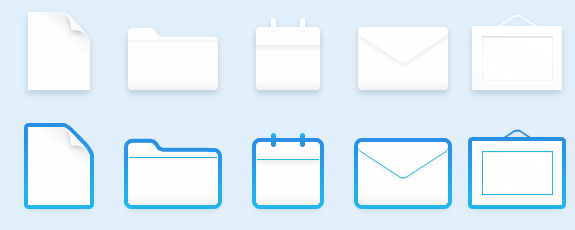
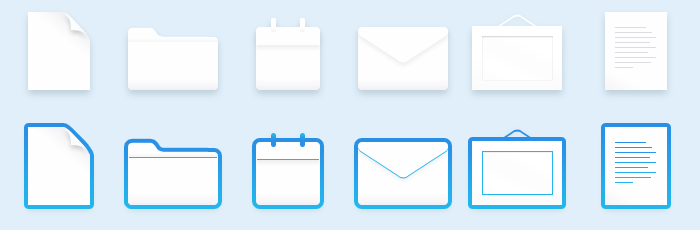
Фикс иконок

diff --git a/templates/skin/synio/css/modals.css b/templates/skin/synio/css/modals.css
@@ -56,19 +56,20 @@
 .modal.modal-write .write-list li a { color: #727a90; }
 .modal.modal-write .write-list li:hover a { color: #275ec2; }
 .modal.modal-write .write-list li .write-item-image { display: block; margin: 0 auto; width: 115px; height: 115px; border-radius: 3px; text-align: center; background: url(../images/write.png) no-repeat; margin-bottom: 0; }
+.modal.modal-write .write-list li.write-item-type-draft							{ padding-right: 20px; margin-right: 0; border-right: 1px dotted #aac6d9; }
 
 .modal.modal-write .write-list li.write-item-type-topic .write-item-image 		{ background-position: 0 0; }
 .modal.modal-write .write-list li.write-item-type-poll .write-item-image 		{ background-position: -115px 0; }
 .modal.modal-write .write-list li.write-item-type-link .write-item-image 		{ background-position: -230px 0; }
 .modal.modal-write .write-list li.write-item-type-message .write-item-image 	{ background-position: -345px 0; }
 .modal.modal-write .write-list li.write-item-type-blog .write-item-image 		{ background-position: -115px 0; }
-.modal.modal-write .write-list li.write-item-type-draft .write-item-image 		{ background-position: 0 0; }
+.modal.modal-write .write-list li.write-item-type-draft .write-item-image 		{ background-position: -578px 0; }
 .modal.modal-write .write-list li.write-item-type-topic:hover  .write-item-image		{ background-position: 0 -115px; }
 .modal.modal-write .write-list li.write-item-type-poll:hover  .write-item-image 		{ background-position: -115px -115px; }
 .modal.modal-write .write-list li.write-item-type-link:hover  .write-item-image 		{ background-position: -230px -115px; }
-.modal.modal-write .write-list li.write-item-type-message:hover  .write-item-image 	{ background-position: -345px -115px; }
+.modal.modal-write .write-list li.write-item-type-message:hover  .write-item-image 		{ background-position: -345px -115px; }
 .modal.modal-write .write-list li.write-item-type-blog:hover  .write-item-image 		{ background-position: -115px -115px; }
-.modal.modal-write .write-list li.write-item-type-draft:hover  .write-item-image		{ background-position: 0 -115px; }
+.modal.modal-write .write-list li.write-item-type-draft:hover  .write-item-image		{ background-position: -578px -115px; }
 
 
 /* Upload Image */

diff --git a/templates/language/russian.php b/templates/language/russian.php
@@ -46,6 +46,7 @@ return array(
 	 */
 	'reader_declension' => 'читатель;читателя;читателей',
 	'topic_declension' => 'топик;топика;топиков',
+	'draft_declension' => 'черновик;черновика;черновиков',
 	/**
 	 * Популярные блоги
 	 */

diff --git a/templates/language/english.php b/templates/language/english.php
@@ -46,6 +46,7 @@ return array(
 	 */
 	'reader_declension' => 'reader;readers;readers',
 	'topic_declension' => 'topic;topics;topics',
+	'draft_declension' => 'draft;drafts;drafts',
 	/**
 	 * Popular Blogs
 	 */
